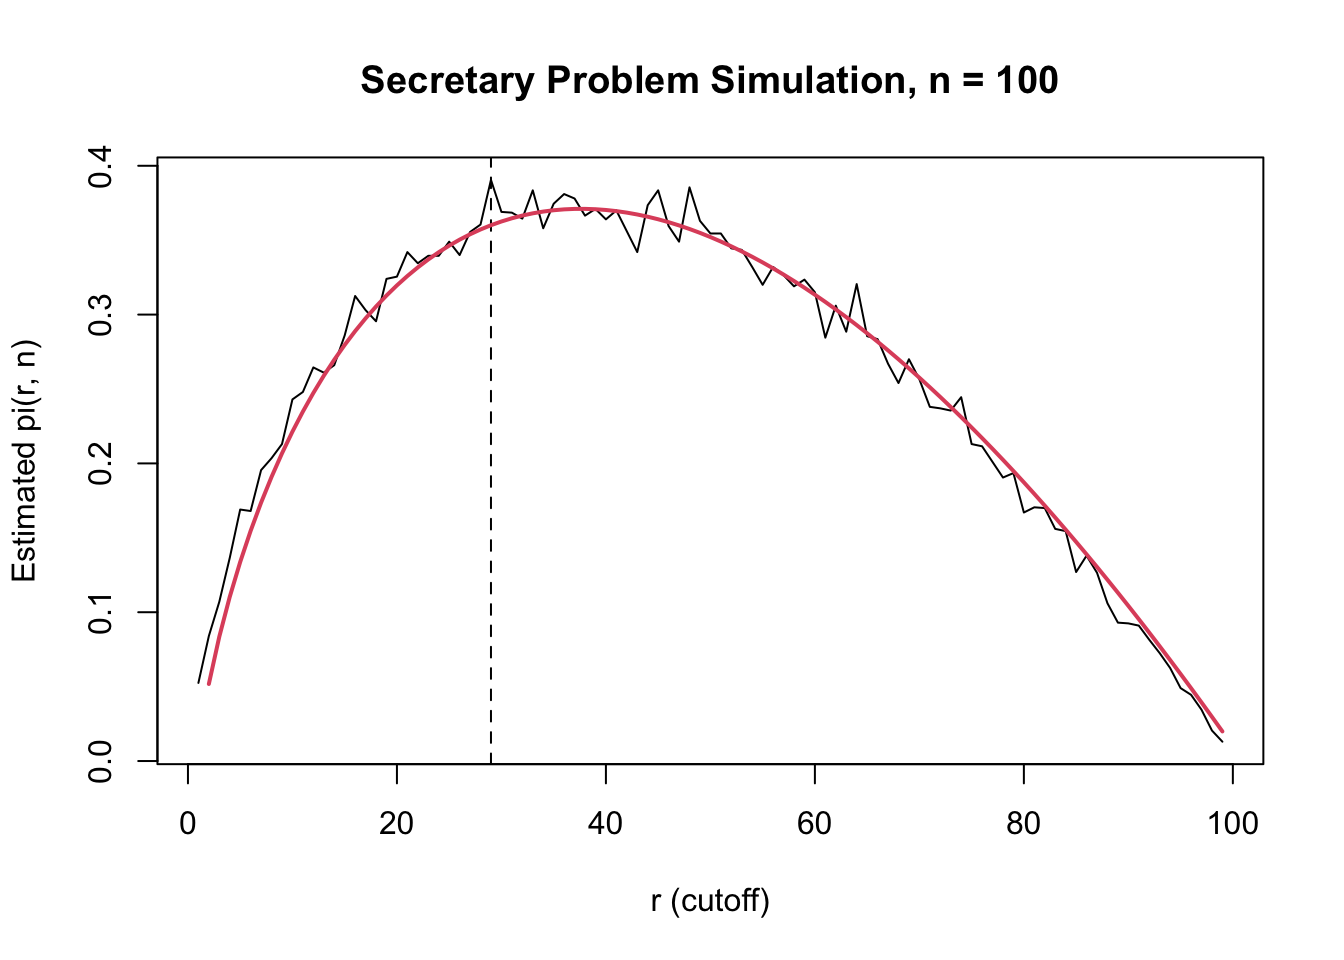
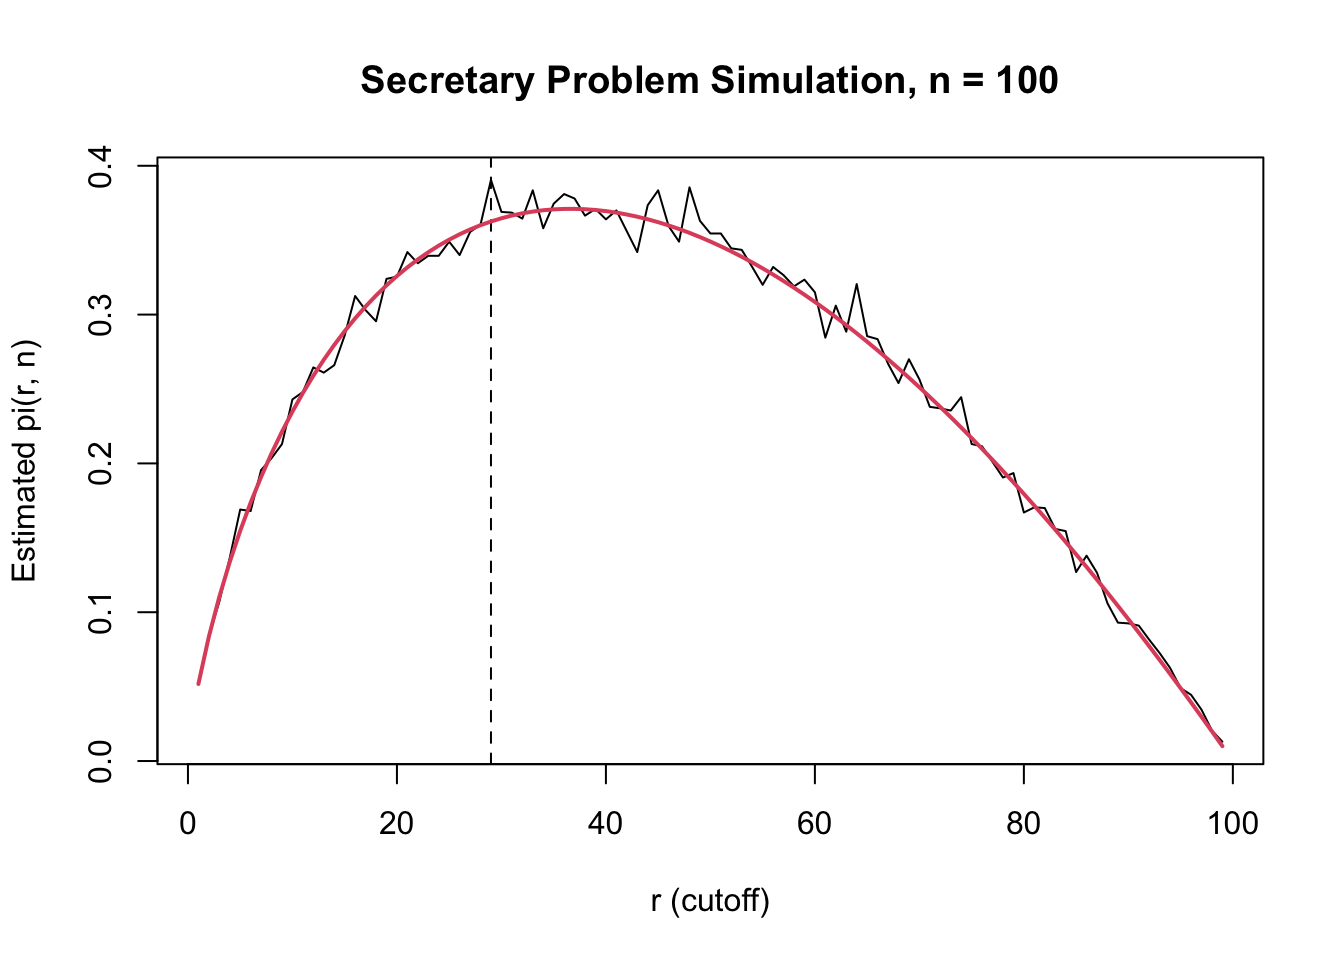
Built site for gh-pages

diff --git a/03-R.html b/03-R.html
@@ -811,12 +811,15 @@ Tip
 </section>
 <section id="example-hiring-the-best-secretary" class="level2" data-number="3.11">
 <h2 data-number="3.11" class="anchored" data-anchor-id="example-hiring-the-best-secretary"><span class="header-section-number">3.11</span> Example: Hiring the Best Secretary</h2>
-<p>A manager wants to hire one secretary from among <span class="math inline">\(n\)</span> applicants. According to some standard, the applicants can be strictly ranked from best to worst, but the order in which they are interviewed is completely random. For each interview the manager must immediately decide whether to hire this person. If the applicant is hired, the process stops. Otherwise the manager moves on to the next applicant. Any rejected applicant cannot be recalled later. What rule should the manager use in order to maximize the probability that the person hired is actually the best of the <span class="math inline">\(n\)</span> applicants?</p>
+<p>A manager wants to hire one secretary from among <span class="math inline">\(n\)</span> applicants. According to some standard, the applicants can be strictly ranked from strongest to weakest, but the order in which they are interviewed is completely random. For each interview the manager must immediately decide whether to hire this person. If the applicant is hired, the process stops. Otherwise the manager moves on to the next applicant. Any rejected applicant cannot be recalled later. What rule should the manager use in order to maximize the probability that the person hired is actually the best of the <span class="math inline">\(n\)</span> applicants?</p>
 <p>Consider the following strategy. Choose an integer <span class="math inline">\(r &lt; n\)</span>. The manager first interviews the first <span class="math inline">\(r\)</span> applicants and rejects all of them. Then, starting from applicant <span class="math inline">\(r+1\)</span>, the manager hires the first applicant whose quality is better than all previous applicants. If no such applicant appears, the manager hires the last applicant.</p>
 <p>Let <span class="math inline">\(\pi(r,n)\)</span> be the probability that this strategy results in hiring the best applicant. It can be shown that</p>
 <p><span class="math display">\[
-\pi(r,n)
-= \sum_{i=r}^{n} \frac{r-1}{i-1}\cdot \frac{1}{n}.
+\begin{align}
+\pi(r,n) &amp;= \sum_{i=1}^{n} |Pr(\text{Strongest among first } i-1 \text{ is in } 1,\dots,r)}
+\Pr(\text{Strongest at position } i)\\
+&amp;= \sum_{i=r + 1}^{n} \frac{r}{i - 1}\cdot \frac{1}{n}.
+\end{align}
 \]</span></p>
 <p>The problem is to choose <span class="math inline">\(r\)</span> to maximize <span class="math inline">\(\pi(r,n)\)</span>.</p>
 <p>Now we estimate the probability <span class="math inline">\(\pi(r,n)\)</span> of selecting the best candidate in the classical secretary problem using simulation in R. For each candidate number <span class="math inline">\(n\)</span> and cutoff <span class="math inline">\(r\)</span>, we simulate the hiring process repeatedly and compute the proportion of simulations in which the selected applicant is the best (rank <span class="math inline">\(1\)</span>).</p>
@@ -901,7 +904,7 @@ Tip
 <span id="cb56-3"><a href="#cb56-3" aria-hidden="true" tabindex="-1"></a>     <span class="at">ylab =</span> <span class="st">"Estimated pi(r, n)"</span>,</span>
 <span id="cb56-4"><a href="#cb56-4" aria-hidden="true" tabindex="-1"></a>     <span class="at">main =</span> <span class="fu">paste</span>(<span class="st">"Secretary Problem Simulation, n ="</span>, n))</span>
 <span id="cb56-5"><a href="#cb56-5" aria-hidden="true" tabindex="-1"></a><span class="fu">abline</span>(<span class="at">v =</span> r_star_hat, <span class="at">lty =</span> <span class="dv">2</span>)</span>
-<span id="cb56-6"><a href="#cb56-6" aria-hidden="true" tabindex="-1"></a><span class="fu">lines</span>(rs, <span class="fu">sapply</span>(rs, <span class="cf">function</span>(r) <span class="fu">sum</span>((r<span class="dv">-1</span>)<span class="sc">/</span>(r<span class="sc">:</span><span class="dv">100</span> <span class="sc">-</span> <span class="dv">1</span>)) <span class="sc">/</span> <span class="dv">100</span>), <span class="at">col =</span> <span class="dv">2</span>, <span class="at">lwd =</span> <span class="dv">2</span>)</span></code><button title="Copy to Clipboard" class="code-copy-button"><i class="bi"></i></button></pre></div>
+<span id="cb56-6"><a href="#cb56-6" aria-hidden="true" tabindex="-1"></a><span class="fu">lines</span>(rs, <span class="fu">sapply</span>(rs, <span class="cf">function</span>(r) <span class="fu">sum</span>((r)<span class="sc">/</span>((r<span class="sc">+</span><span class="dv">1</span>)<span class="sc">:</span><span class="dv">100</span> <span class="sc">-</span> <span class="dv">1</span>)) <span class="sc">/</span> <span class="dv">100</span>), <span class="at">col =</span> <span class="dv">2</span>, <span class="at">lwd =</span> <span class="dv">2</span>)</span></code><button title="Copy to Clipboard" class="code-copy-button"><i class="bi"></i></button></pre></div>
 </details>
 <div class="cell-output-display">
 <div>
@@ -911,6 +914,7 @@ Tip
 </div>
 </div>
 </div>
+<p>As <span class="math inline">\(n \to \infty\)</span>, <span class="math inline">\(r^* / n \to 1 / e \approx 0.368\)</span>.</p>
 </section>
 </section>
 <section id="wrapup-checklist" class="level2" data-number="3.12">
